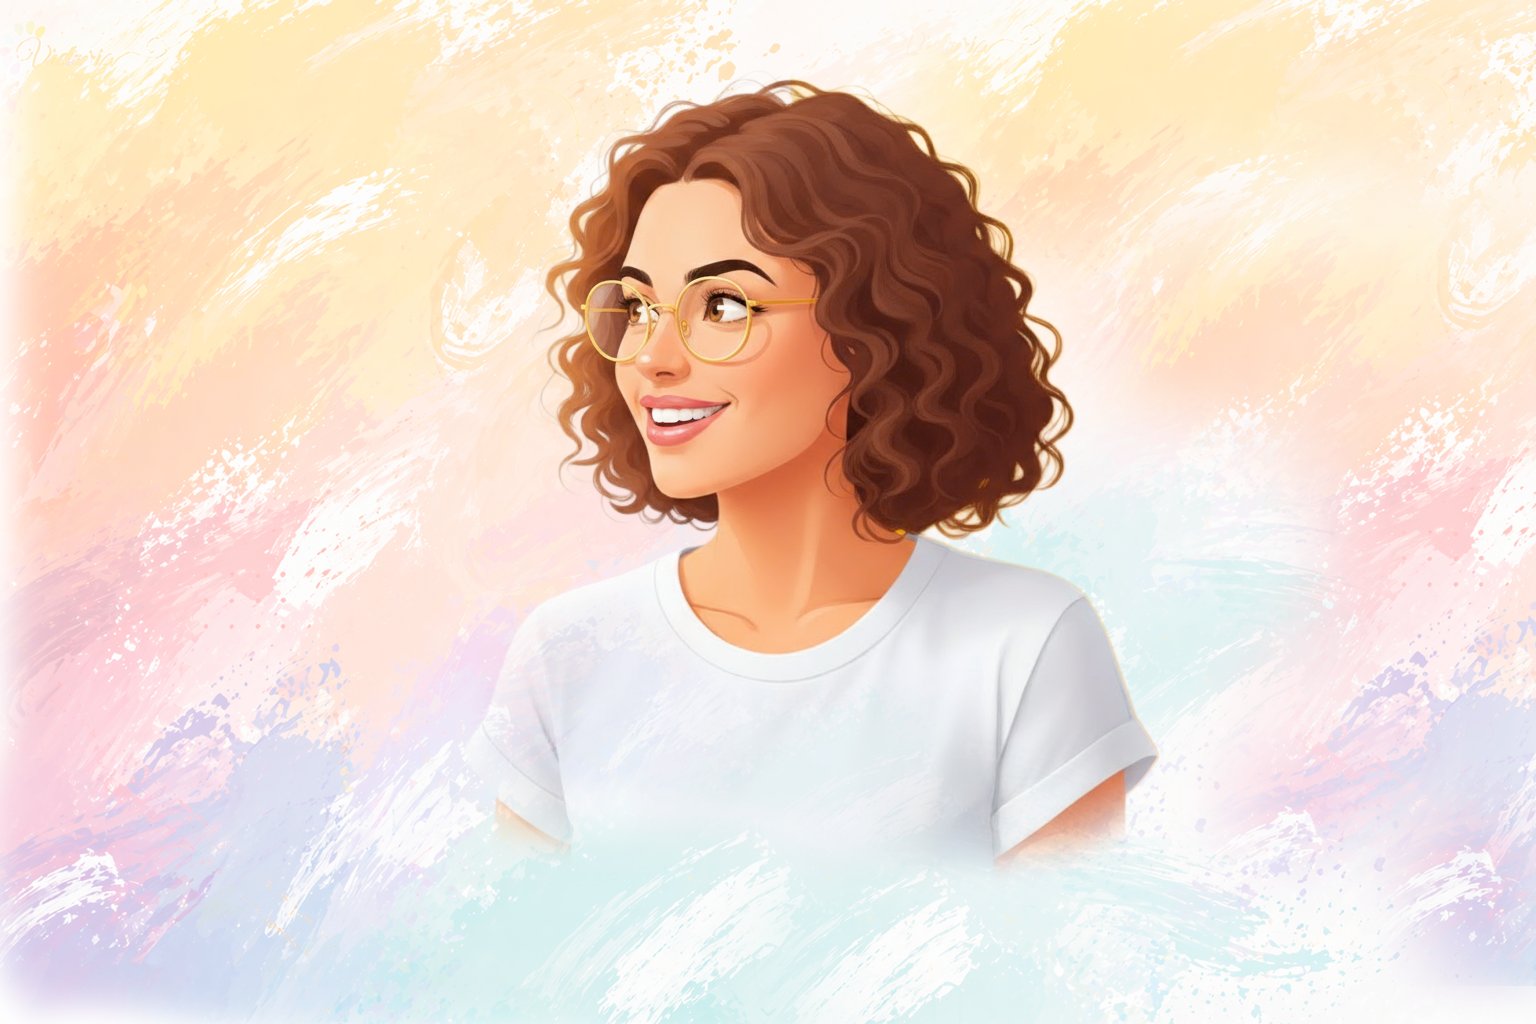
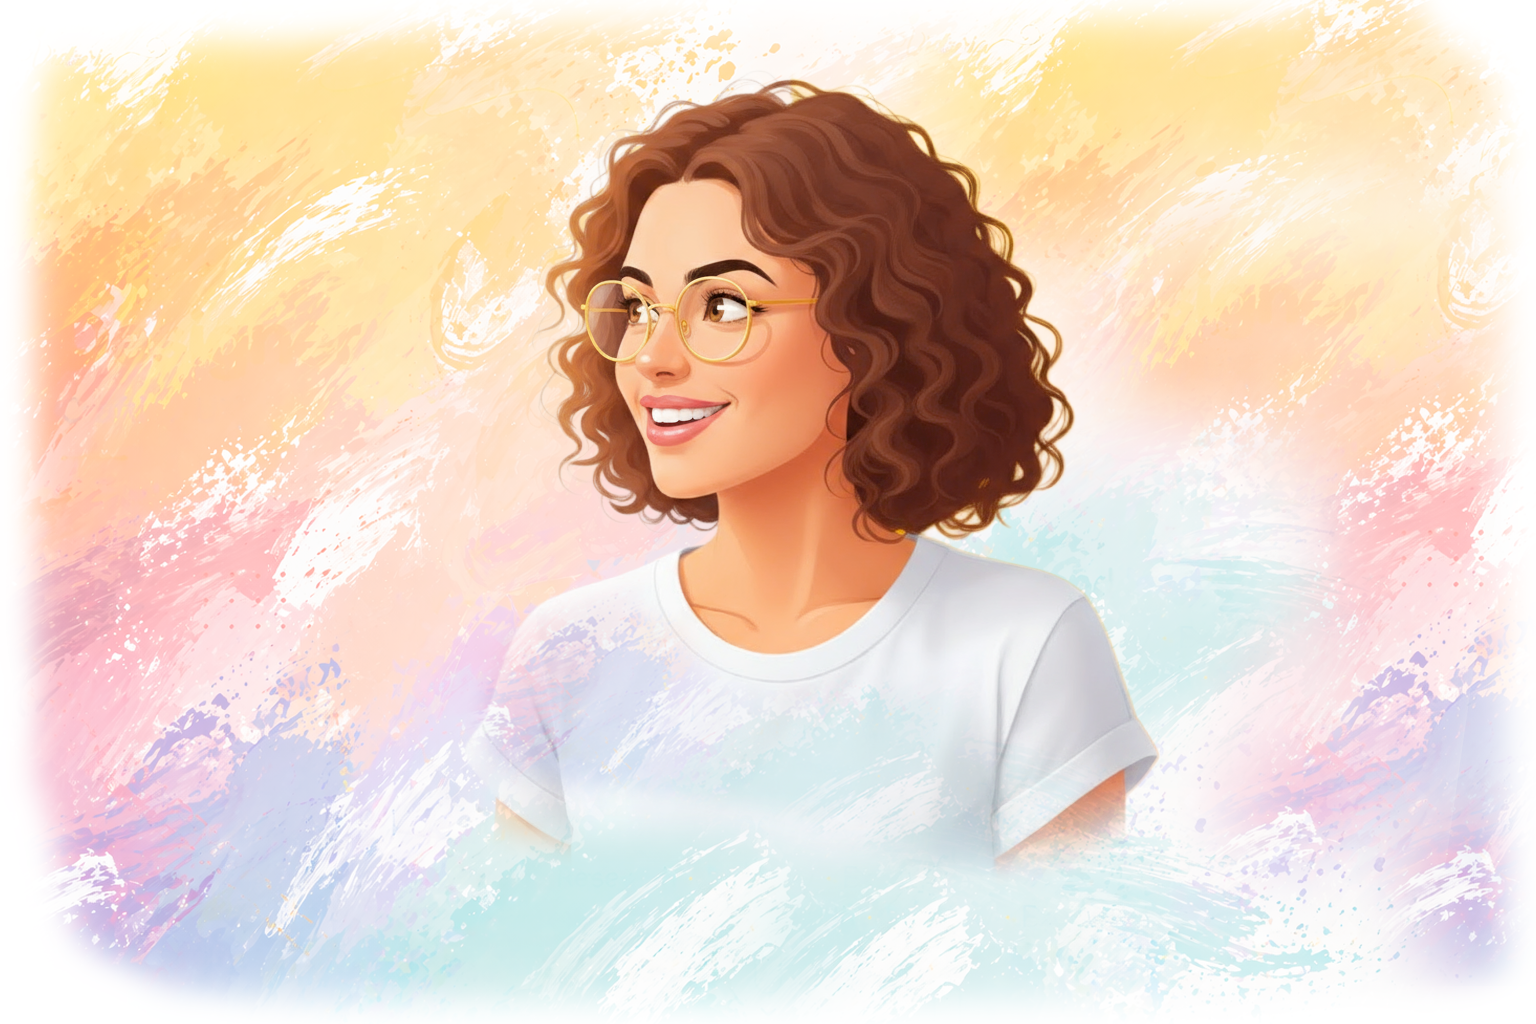
intro

diff --git a/assets/css/style.css b/assets/css/style.css
@@ -483,18 +483,45 @@ h6 {
 /* box-intro
 ==================================================*/
 
+/* CHANGE FULL HERO BACKGROUND COLORS HERE */
+:root {
+    --hero-bg-left-1: #f9f3fa;
+    --hero-bg-left-2: #fff8e8;
+    --hero-bg-left-3: #fdfcf0;
+    --hero-bg-center: #ffffff;
+    --hero-bg-right-1: #f9fafe;
+    --hero-bg-right-2: #ffffff;
+
+    /* CONTROL LEFT/RIGHT IMAGE EDGE FEATHER HERE */
+    --feather-left: 0%;
+    --feather-right: 0%;
+
+    /* CONTROL TOP/BOTTOM IMAGE EDGE FEATHER HERE */
+    --feather-top: 0%;
+    --feather-bottom: 0%;
+
+    /* CONTROL HOW FAR THE LEFT FEATHER GOES TOWARD CENTER HERE */
+    --edge-left-opacity: 0.75;
+
+    /* CONTROL HOW FAR THE RIGHT FEATHER GOES TOWARD CENTER HERE */
+    --edge-right-opacity: 0.25;
+    --edge-top-opacity: 0.45;
+    --edge-bottom-opacity: 0.55;
+
+    /* CONTROL HOVER REVEAL STRENGTH HERE */
+    --reveal-x: 100%;
+    --reveal-softness: 50%;
+}
+
 .box-intro {
     --hero-split: 50%;
-    --hero-left-glow: 0.5;
-    --hero-right-glow: 0.5;
     padding-top: 94px;
     min-height: 100vh;
     width: 100%;
     position: relative;
     z-index: 0;
     isolation: isolate;
-    background:
-        linear-gradient(90deg, rgba(255, 251, 247, 0.97) 0%, rgba(255, 248, 241, 0.96) 47%, rgba(248, 249, 253, 0.98) 53%, rgba(252, 253, 255, 0.99) 100%);
+    background: linear-gradient(90deg, var(--hero-bg-center) 0%, var(--hero-bg-center) 100%);
 }
 
 .box-intro:before {
@@ -502,9 +529,51 @@ h6 {
     position: absolute;
     inset: 0;
     background:
-        radial-gradient(circle at 22% 28%, rgba(247, 147, 30, 0.14) 0, rgba(247, 147, 30, 0) 28%),
-        radial-gradient(circle at 77% 32%, rgba(44, 40, 84, 0.1) 0, rgba(44, 40, 84, 0) 24%),
-        linear-gradient(90deg, rgba(247, 147, 30, 0.05) 0%, rgba(247, 147, 30, 0) 24%, rgba(255, 255, 255, 0.4) 48%, rgba(255, 255, 255, 0.4) 52%, rgba(44, 40, 84, 0) 76%, rgba(44, 40, 84, 0.03) 100%);
+        radial-gradient(circle at 14% 18%, var(--hero-bg-left-1) 0, transparent 32%),
+        radial-gradient(circle at 22% 78%, color-mix(in srgb, var(--hero-bg-left-3) 72%, white 28%) 0, transparent 28%),
+        radial-gradient(circle at 34% 40%, color-mix(in srgb, var(--hero-bg-left-2) 66%, white 34%) 0, transparent 30%),
+        linear-gradient(90deg, var(--hero-bg-left-1) 0%, var(--hero-bg-left-2) 34%, var(--hero-bg-left-3) 52%, transparent calc(var(--reveal-x) + var(--reveal-softness)));
+    -webkit-mask-image: linear-gradient(
+        to right,
+        #000 0%,
+        #000 calc(var(--reveal-x) - var(--reveal-softness)),
+        rgba(0, 0, 0, 0.85) var(--reveal-x),
+        transparent calc(var(--reveal-x) + var(--reveal-softness))
+    );
+    mask-image: linear-gradient(
+        to right,
+        #000 0%,
+        #000 calc(var(--reveal-x) - var(--reveal-softness)),
+        rgba(0, 0, 0, 0.85) var(--reveal-x),
+        transparent calc(var(--reveal-x) + var(--reveal-softness))
+    );
+    z-index: 0;
+}
+
+.box-intro:after {
+    content: "";
+    position: absolute;
+    inset: 0;
+    background:
+        linear-gradient(rgba(99, 104, 138, 0.045) 1px, transparent 1px),
+        linear-gradient(90deg, rgba(99, 104, 138, 0.045) 1px, transparent 1px),
+        radial-gradient(circle at 80% 28%, rgba(236, 239, 246, 0.95) 0, transparent 24%),
+        linear-gradient(90deg, transparent calc(var(--reveal-x) - var(--reveal-softness)), var(--hero-bg-right-1) calc(var(--reveal-x) + var(--reveal-softness)), var(--hero-bg-right-2) 100%);
+    background-size: 40px 40px, 40px 40px, auto, auto;
+    -webkit-mask-image: linear-gradient(
+        to right,
+        transparent calc(var(--reveal-x) - var(--reveal-softness)),
+        rgba(0, 0, 0, 0.85) var(--reveal-x),
+        #000 calc(var(--reveal-x) + var(--reveal-softness)),
+        #000 100%
+    );
+    mask-image: linear-gradient(
+        to right,
+        transparent calc(var(--reveal-x) - var(--reveal-softness)),
+        rgba(0, 0, 0, 0.85) var(--reveal-x),
+        #000 calc(var(--reveal-x) + var(--reveal-softness)),
+        #000 100%
+    );
     z-index: 0;
 }
 
@@ -606,42 +675,93 @@ h6 {
     position: absolute;
     left: 50%;
     top: calc(50% + 8px);
-    width: min(80vw, 1240px);
+    width: min(100vw, 1800px);
     aspect-ratio: 3 / 2;
     transform: translate(-50%, -50%);
     z-index: 1;
     pointer-events: none;
+    overflow: visible;
 }
 
 .hero-image-stage:before {
-    content: "";
-    position: absolute;
-    inset: 14% 12% 18%;
-    border-radius: 50%;
-    background:
-        radial-gradient(circle at 36% 40%, rgba(247, 147, 30, calc(0.2 + (var(--hero-left-glow) * 0.18))) 0, rgba(247, 147, 30, 0.08) 26%, rgba(247, 147, 30, 0) 66%),
-        radial-gradient(circle at 68% 42%, rgba(77, 87, 118, calc(0.14 + (var(--hero-right-glow) * 0.14))) 0, rgba(77, 87, 118, 0.06) 24%, rgba(77, 87, 118, 0) 68%),
-        radial-gradient(circle at 50% 65%, rgba(255, 255, 255, 0.62), rgba(255, 255, 255, 0) 72%);
-    filter: blur(38px);
+    content: none;
 }
 
 .hero-image-stage:after {
-    content: "";
-    position: absolute;
-    inset: 8% 10% 10%;
-    border-radius: 50%;
-    background:
-        radial-gradient(circle at center, rgba(255, 255, 255, 0) 40%, rgba(255, 255, 255, 0.28) 62%, rgba(255, 255, 255, 0) 74%);
-    filter: blur(10px);
-    opacity: 0.9;
+    content: none;
 }
 
 .hero-avatar-layers {
     position: absolute;
     inset: 0;
-    -webkit-mask-image: radial-gradient(ellipse at center, #000 30%, rgba(0,0,0,0.98) 48%, rgba(0,0,0,0.88) 61%, rgba(0,0,0,0.45) 76%, transparent 92%);
-    mask-image: radial-gradient(ellipse at center, #000 30%, rgba(0,0,0,0.98) 48%, rgba(0,0,0,0.88) 61%, rgba(0,0,0,0.45) 76%, transparent 92%);
-    filter: drop-shadow(0 18px 42px rgba(82, 76, 93, 0.14));
+    z-index: 1;
+}
+
+/* CONTROL LEFT/RIGHT EDGE FEATHER HERE */
+/* CONTROL TOP/BOTTOM EDGE FEATHER HERE */
+.hero-edge-feather,
+.hero-edge-feather span {
+    position: absolute;
+    pointer-events: none;
+}
+
+.hero-edge-feather {
+    inset: 0;
+    z-index: 2;
+}
+
+/* CONTROL HOW FAR THE LEFT FEATHER GOES TOWARD CENTER HERE */
+.hero-edge-feather-left {
+    top: 0;
+    left: 0;
+    bottom: 0;
+    width: var(--feather-left);
+    background: linear-gradient(
+        to right,
+        color-mix(in srgb, var(--hero-bg-center) calc(var(--edge-left-opacity) * 100%), transparent) 0%,
+        color-mix(in srgb, var(--hero-bg-left-1) calc(var(--edge-left-opacity) * 78%), transparent) 42%,
+        transparent 100%
+    );
+}
+
+/* CONTROL HOW FAR THE RIGHT FEATHER GOES TOWARD CENTER HERE */
+.hero-edge-feather-right {
+    top: 0;
+    right: 0;
+    bottom: 0;
+    width: var(--feather-right);
+    background: linear-gradient(
+        to left,
+        color-mix(in srgb, var(--hero-bg-right-2) calc(var(--edge-right-opacity) * 100%), transparent) 0%,
+        color-mix(in srgb, var(--hero-bg-right-1) calc(var(--edge-right-opacity) * 72%), transparent) 48%,
+        transparent 100%
+    );
+}
+
+.hero-edge-feather-top {
+    top: 0;
+    left: 0;
+    right: 0;
+    height: var(--feather-top);
+    background: linear-gradient(
+        to bottom,
+        color-mix(in srgb, white calc(var(--edge-top-opacity) * 100%), transparent) 0%,
+        color-mix(in srgb, var(--hero-bg-center) calc(var(--edge-top-opacity) * 70%), transparent) 42%,
+        transparent 100%
+    );
+}
+
+.hero-edge-feather-bottom {
+    left: 0;
+    right: 0;
+    bottom: 0;
+    height: var(--feather-bottom);
+    background: linear-gradient(
+        to top,
+        color-mix(in srgb, white calc(var(--edge-bottom-opacity) * 100%), transparent) 0%,
+        color-mix(in srgb, var(--hero-bg-right-2) calc(var(--edge-bottom-opacity) * 72%), transparent) 42%,
+        transparent 100%
+    );
 }
 
 .hero-avatar {
@@ -663,16 +783,16 @@ h6 {
 .hero-avatar-designer {
     position: relative;
     z-index: 1;
-    filter: saturate(1.08) contrast(1.01) brightness(1.01);
-    -webkit-mask-image: linear-gradient(90deg, #000 0%, #000 calc(var(--hero-split) - 6%), rgba(0,0,0,0.92) calc(var(--hero-split) + 3%), transparent calc(var(--hero-split) + 18%));
-    mask-image: linear-gradient(90deg, #000 0%, #000 calc(var(--hero-split) - 6%), rgba(0,0,0,0.92) calc(var(--hero-split) + 3%), transparent calc(var(--hero-split) + 18%));
+    filter: saturate(0.94) contrast(0.99) brightness(1.015);
+    -webkit-mask-image: linear-gradient(90deg, #000 0%, #000 calc(var(--hero-split) - 7%), rgba(0,0,0,0.94) calc(var(--hero-split) + 2%), transparent calc(var(--hero-split) + 18%));
+    mask-image: linear-gradient(90deg, #000 0%, #000 calc(var(--hero-split) - 7%), rgba(0,0,0,0.94) calc(var(--hero-split) + 2%), transparent calc(var(--hero-split) + 18%));
 }
 
 .hero-avatar-owner {
     z-index: 2;
-    filter: saturate(0.96) contrast(1.01) brightness(1.03);
-    -webkit-mask-image: linear-gradient(90deg, transparent calc(var(--hero-split) - 18%), rgba(0,0,0,0.92) calc(var(--hero-split) - 3%), #000 calc(var(--hero-split) + 6%), #000 100%);
-    mask-image: linear-gradient(90deg, transparent calc(var(--hero-split) - 18%), rgba(0,0,0,0.92) calc(var(--hero-split) - 3%), #000 calc(var(--hero-split) + 6%), #000 100%);
+    filter: saturate(0.92) contrast(1) brightness(1.025);
+    -webkit-mask-image: linear-gradient(90deg, transparent calc(var(--hero-split) - 18%), rgba(0,0,0,0.94) calc(var(--hero-split) - 2%), #000 calc(var(--hero-split) + 7%), #000 100%);
+    mask-image: linear-gradient(90deg, transparent calc(var(--hero-split) - 18%), rgba(0,0,0,0.94) calc(var(--hero-split) - 2%), #000 calc(var(--hero-split) + 7%), #000 100%);
 }
 
 .hero-avatar-divider {

diff --git a/assets/js/hero-split.js b/assets/js/hero-split.js
@@ -17,24 +17,14 @@
 
     function applyVars(value) {
       var split = clamp(value, 6, 94);
-      var bias = (split - 50) / 18;
-      var leftGlow = clamp(0.5 + bias, 0.2, 1);
-      var rightGlow = clamp(0.5 - bias, 0.2, 1);
-
       hero.style.setProperty('--hero-split', split.toFixed(2) + '%');
-      hero.style.setProperty('--hero-left-glow', leftGlow.toFixed(3));
-      hero.style.setProperty('--hero-right-glow', rightGlow.toFixed(3));
+      hero.style.setProperty('--reveal-x', split.toFixed(2) + '%');
     }
 
     function updateVars() {
       current += (target - current) * 0.12;
-      var bias = (current - 50) / 18;
-      var leftGlow = clamp(0.5 + bias, 0.2, 1);
-      var rightGlow = clamp(0.5 - bias, 0.2, 1);
-
       hero.style.setProperty('--hero-split', current.toFixed(2) + '%');
-      hero.style.setProperty('--hero-left-glow', leftGlow.toFixed(3));
-      hero.style.setProperty('--hero-right-glow', rightGlow.toFixed(3));
+      hero.style.setProperty('--reveal-x', current.toFixed(2) + '%');
 
       if (Math.abs(target - current) > 0.02) {
         rafId = window.requestAnimationFrame(updateVars);

diff --git a/index.html b/index.html
@@ -124,6 +124,12 @@
                 <img src="/assets/Avatar-Product.png" class="hero-avatar hero-avatar-owner" alt="">
                 <div class="hero-avatar-divider"></div>
             </div>
+            <div class="hero-edge-feather">
+                <span class="hero-edge-feather-left"></span>
+                <span class="hero-edge-feather-right"></span>
+                <span class="hero-edge-feather-top"></span>
+                <span class="hero-edge-feather-bottom"></span>
+            </div>
         </div>
         <div class="hero-center-copy">
             <h1 class="hero-statement">Product Thinking<span> - </span>  <span>from concept to launch</span></h1>
